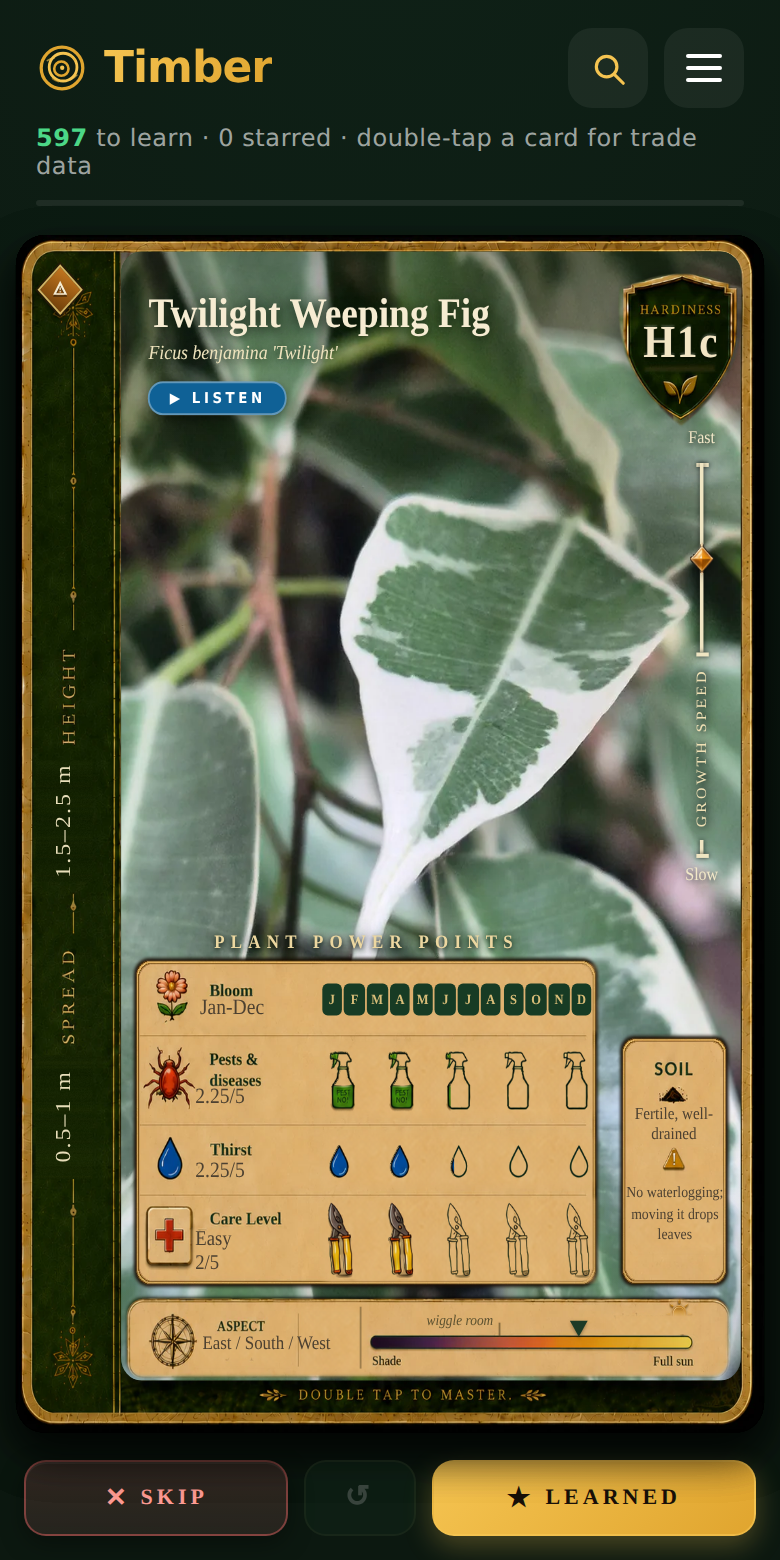
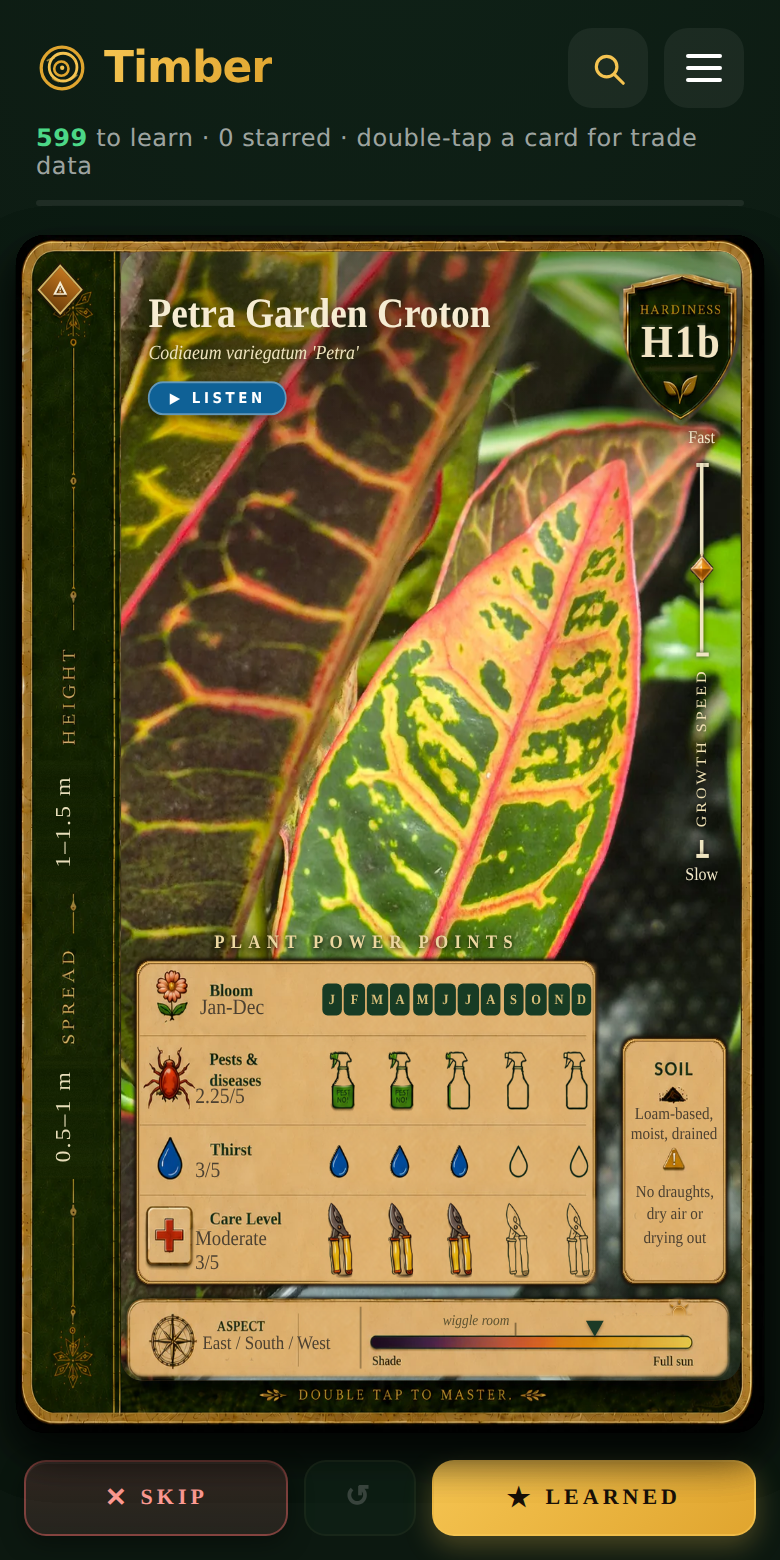
Deal Peperomia 'Obtipan Bicolor' and Codiaeum 'Petra'; hold an unnamed Aglaonema photo (deck 597 -> 599, r400)
Claude-Session: https://claude.ai/code/session_01LFiDFfcvzBikCH3W5Nvw2A

diff --git a/timber.html b/timber.html
@@ -1256,7 +1256,7 @@
 
 <script>
 /* ---------- latin pronunciation (built-in speech engine — offline, no files, no deps) ---------- */
-const BUILD='r399 · 2026-10-10 · 854842a';
+const BUILD='r400 · 2026-10-10 · 8724350';
 /* Shown in the menu foot so a phone's version is checkable at a glance — the SW
    serves the previous build once before swapping, which made "which build am I
    on?" a real question. DO NOT EDIT BY HAND: the trailing hash is a digest of
@@ -14253,6 +14253,32 @@ const PLANTS = [
    uses:"Houseplants, conservatories, offices, specimen pots and variegated foliage displays.", size:"1.5–2.5 m H × 0.5–1 m W",
    toxicity:"Harmful if eaten; milky sap may cause skin allergy or irritation and can affect pets.", hardinessNote:"H1c · 5 to 10°C; frost tender and best grown as a houseplant.", foliage:"evergreen",
    seasonalImpact:"", growthSpeed:10, pestRisk:9, thirst:9, careLevel:8, sunNeed:65, sunMin:40},
+  {common:"Obtipan Bicolor Baby Rubber Plant", latin:"Peperomia obtusifolia 'Obtipan Bicolor'", hue:105,
+   visual:"Compact upright houseplant with glossy fleshy green leaves broadly margined cream, often with a soft pink-red rim.",
+   water:"Low to moderate; water thoroughly, then allow the upper compost to dry before watering again.",
+   aspect:"East / South / West",
+   soil:"Gritty houseplant mix; Overwatering kills it; no cold wet roots",
+   prune:"Pinch or trim leggy shoots to maintain a compact rounded habit.",
+   source:"", peak:"Jan-Dec", order:"", bench:"", root:"",
+   trade:"", retail:"", margin:"", type:"", shrink:"", returnRisk:"", pots:"",
+   cvs:"'Obtipan Bicolor'",
+   hardiness:"H1b", resilience:"Fleshy leaves tolerate short dry periods; average household humidity is usually adequate.",
+   uses:"Houseplants, desks, shelves, small pots and mixed foliage displays.", size:"20–30 cm H × 20–30 cm W",
+   hardinessNote:"H1b · 10 to 15°C; tender tropical houseplant; keep above 10°C, ideally 15°C or more (RHS H1b).", foliage:"evergreen",
+   seasonalImpact:"", growthSpeed:7, pestRisk:4, thirst:6, careLevel:4, sunNeed:60, sunMin:35},
+  {common:"Petra Garden Croton", latin:"Codiaeum variegatum 'Petra'", hue:20,
+   visual:"Bushy tropical shrub with leathery green leaves boldly veined and splashed yellow, orange, red and pink.",
+   water:"Moderate to high; keep evenly moist in active growth while allowing free drainage.",
+   aspect:"East / South / West",
+   soil:"Loam-based, moist, drained; No draughts, dry air or drying out",
+   prune:"Prune leggy stems in spring if needed; wear gloves because the sap can irritate skin.",
+   source:"", peak:"Jan-Dec", order:"", bench:"", root:"",
+   trade:"", retail:"", margin:"", type:"", shrink:"", returnRisk:"", pots:"",
+   cvs:"RHS: Codiaeum variegatum var. pictum 'Petra'",
+   hardiness:"H1b", resilience:"Colour is best with bright light, warmth and humidity; prone to leaf drop if conditions change abruptly.",
+   uses:"Houseplants, conservatories and high-colour tropical foliage displays.", size:"1–1.5 m H × 0.5–1 m W",
+   toxicity:"Harmful if eaten; latex-like sap can irritate skin and eyes.", hardinessNote:"H1b · 10 to 15°C; keep warm and frost-free, ideally above about 15°C.", foliage:"evergreen",
+   seasonalImpact:"", growthSpeed:9, pestRisk:9, thirst:12, careLevel:12, sunNeed:70, sunMin:45},
 ];
 /* PLANTS:END */
 /* HOLD:BEGIN — managed by plants-tool.js; keep this marker pair.

diff --git a/data/held-photos/2026-10-07b/README.md b/data/held-photos/2026-10-07b/README.md
@@ -251,3 +251,19 @@ match the fitted JSON field for field, and all were rendered at 390x844 and are 
 [Unverified], carried as written: the Parvati card says "dark green" fronds, while the photo shows bright mid-green.
 The 2026-10-08 fact check left its H1a (RHS Plants suggests 10°C, which is H1b) and its 50–80 cm spread as
 doubtful.
+
+## Peperomia 'Obtipan Bicolor' and Codiaeum 'Petra' dealt (2026-10-10, r400)
+
+Oscar: "Double check this", with three photos. All were taken on a Galaxy S24 on 2026-10-07 at 4000x3000 with
+EXIF rotation 6. None has C2PA or AI-edit markers or shows a label, and all are byte-identical to what he sent.
+Each was checked against the waiting entries and the card text:
+
+| file | taken | sha256 (first 16) | check |
+|---|---|---|---|
+| `peperomia-obtusifolia-obtipan-bicolor.jpg` | 10:27:48 | 4f8a0a45bf44243d | broad cream-lime margins with a pink-red rim, as the card says. Dealt. |
+| `codiaeum-variegatum-petra.jpg` | 09:21:41 | de653ee7d2beb2f9 | green leaves veined yellow, with red margins and midribs and burgundy older leaves, as the card says. Dealt. |
+| `../2026-10-10b/unmatched-aglaonema-pink.jpg` | 10:27:16 | 7841a169ab25031c | pink-splashed, green-speckled leaves on pink stalks, [Inference] an Aglaonema. No card, hold entry or waiting JSON matches, so it is **held** until Oscar names it or sends its JSON. |
+
+Deck 597 -> 599. Every entry in this batch with a photo is now dealt. Fast 9/9, data-audit 0, plant-sense clean,
+deck-audit PASS, layout clean. Both cards match the fitted JSON field for field, and both were rendered at
+390x844 and are whole.

diff --git a/LEDGER.md b/LEDGER.md
@@ -31,6 +31,8 @@ brick: Play Store — Oscar's focus from 2026-10-06 ("I really think i just need
   check — Oscar opening the app on an iPhone that crashed and pasting back the *Report a problem* text; the
   toxicity paste, 317 of 432 blank, unchanged since 2026-09-13.)
 since: 2026-10-06  sessions-unchanged: 0
+progress: 2026-10-10 (**Peperomia 'Obtipan Bicolor' and Codiaeum 'Petra' dealt; deck 599, r400**) — both checked
+  against their card text; a pink Aglaonema photo matches no JSON and is held (data/held-photos/2026-10-10b/). Not live.
 progress: 2026-10-10 (**Pilea 'Greyzy', Asplenium 'Parvati' and Ficus 'Twilight' dealt; deck 597, r399**) — all checks green. Not live.
 progress: 2026-10-10 (**Vinca 'Colada' dealt; Mandarin Tango dealt with two flash frames; deck 594, r397**) — the
   white Vinca is 'Colada'; Tango's near-duplicate first photo held as a spare. All checks green. Not live.

diff --git a/data/held-photos/2026-10-10b/README.md b/data/held-photos/2026-10-10b/README.md
@@ -1,0 +1,6 @@
+# 2026-10-10b — held: a pink-splashed Aglaonema with no JSON
+
+`unmatched-aglaonema-pink.jpg` was taken on a Galaxy S24 at 10:27:16 on 2026-10-07 (sha256 7841a169ab25031c…) and
+sent with "Double check this". It shows pink-and-green speckled leaves on pink stalks, [Inference] an Aglaonema.
+There is no Aglaonema in the deck, in the hold block or in any waiting JSON, so nothing was dealt. The cultivar
+is not named, because a photo alone is not enough to name it. It waits for Oscar's label name or JSON.
